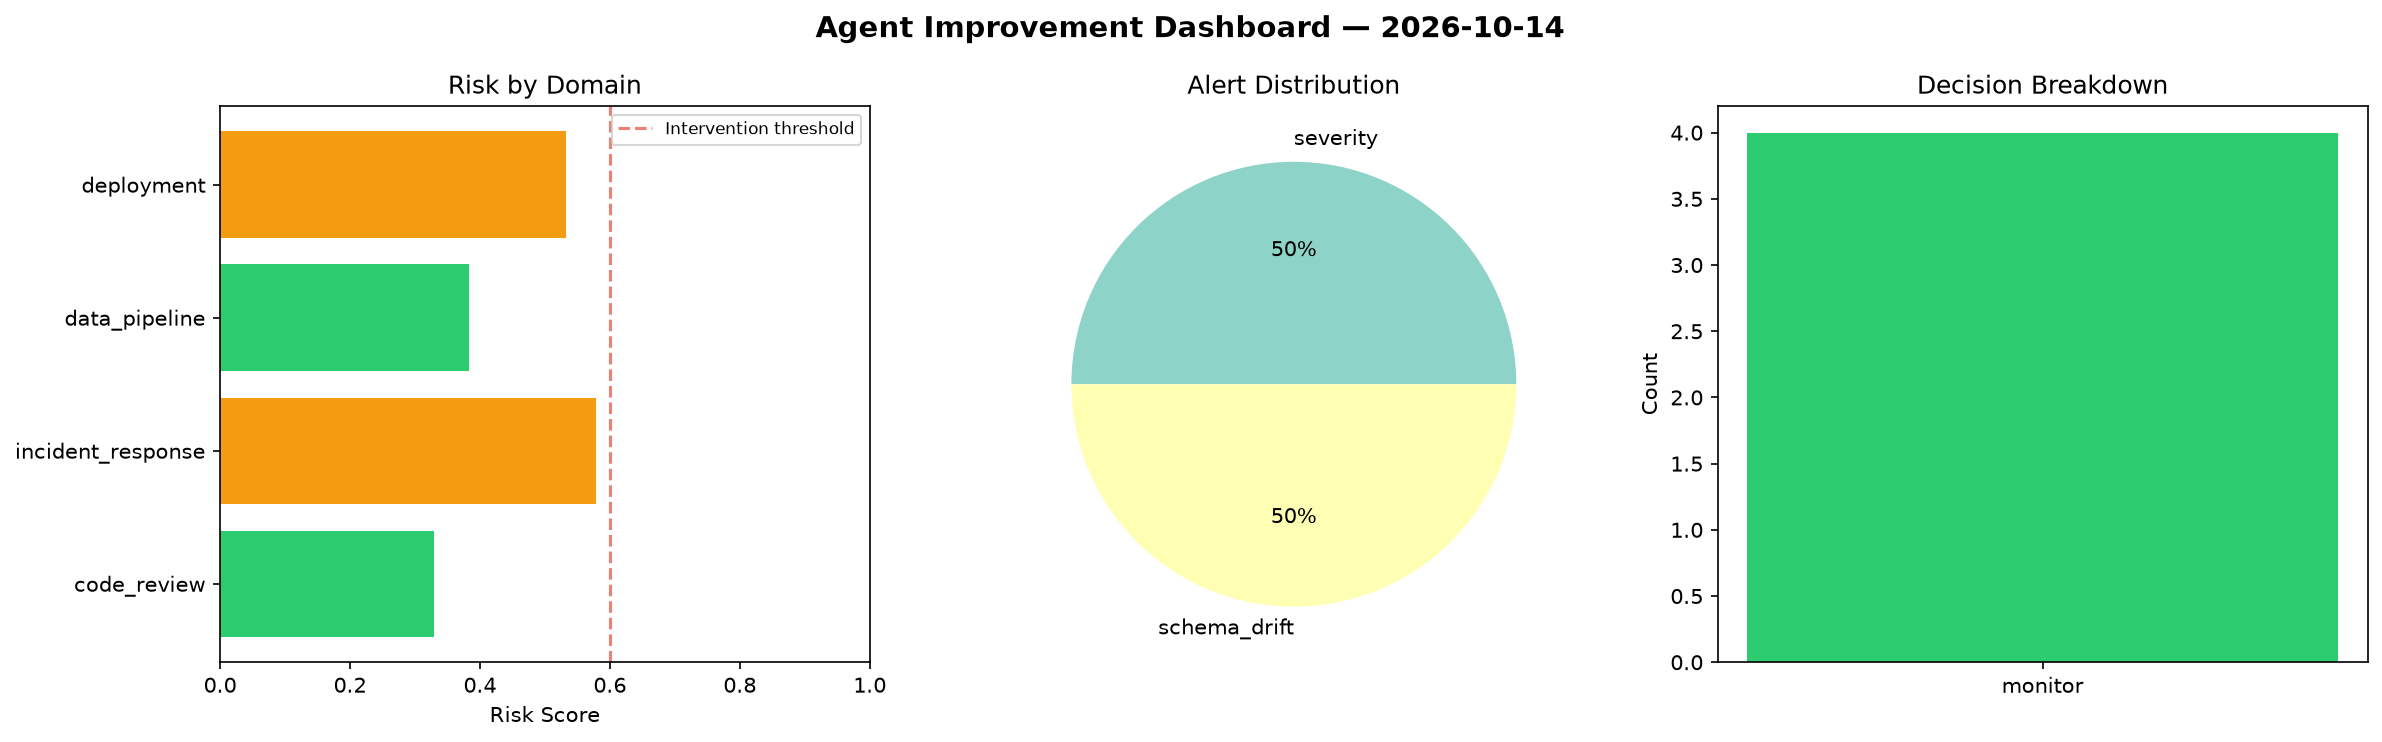
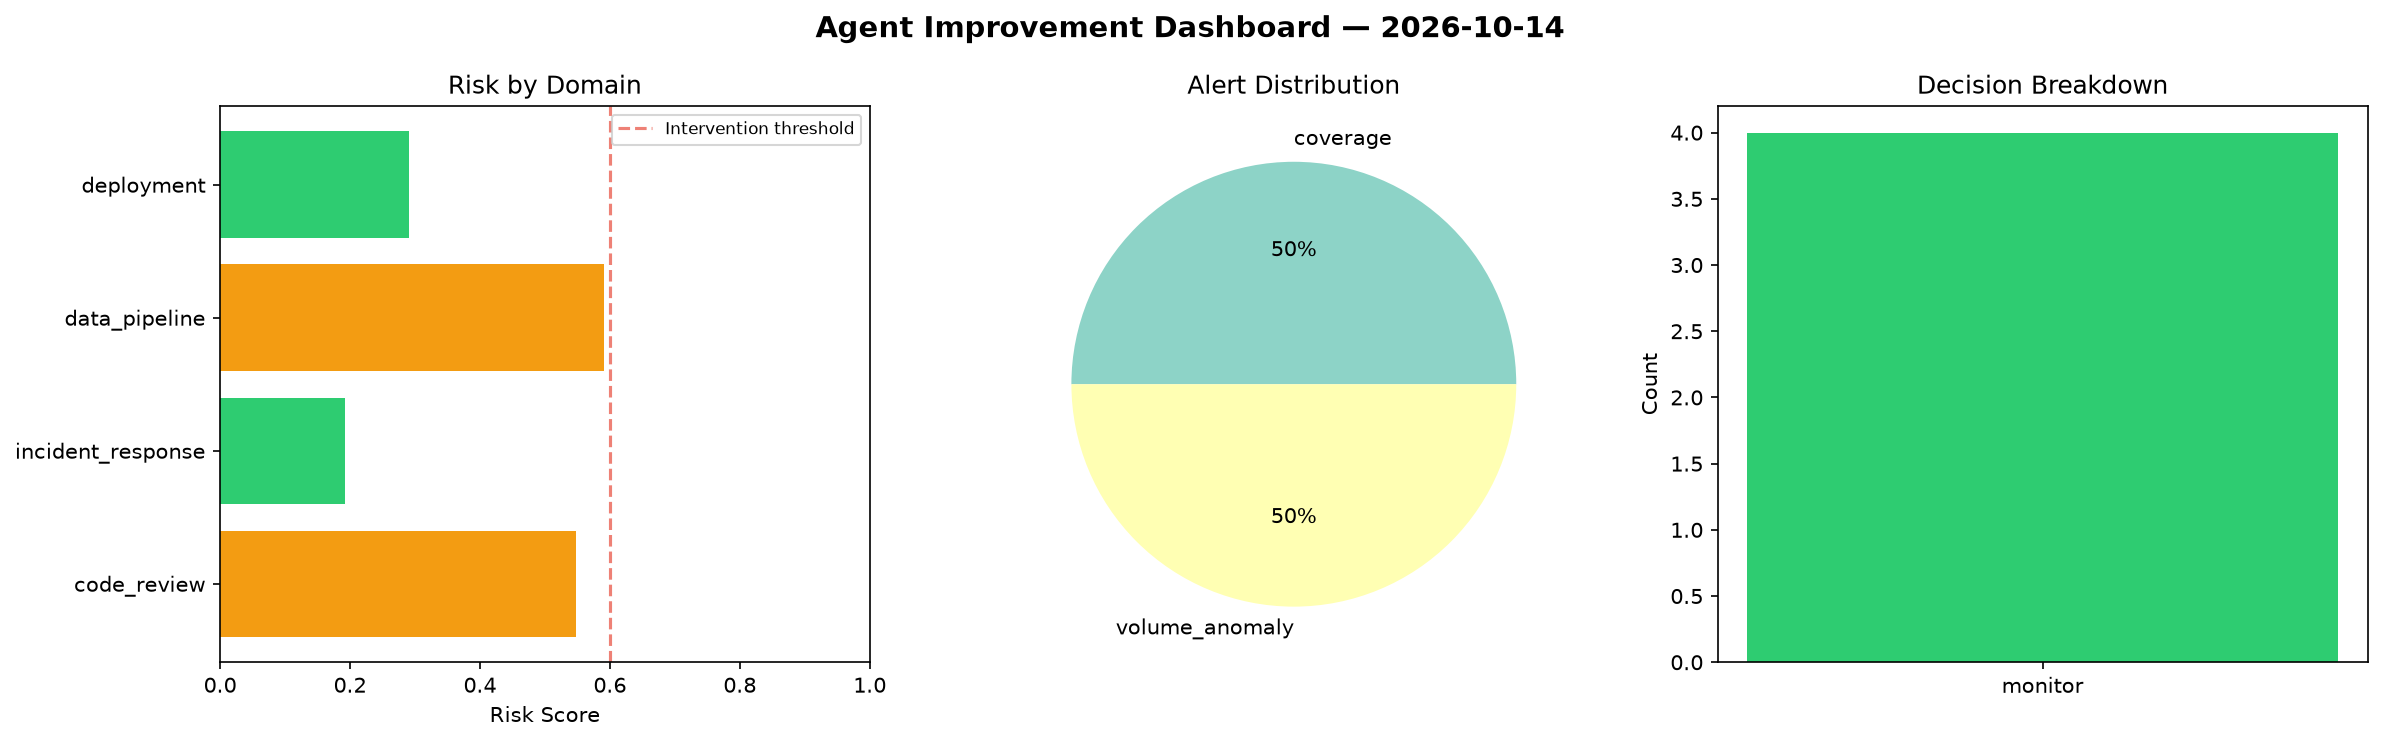
agent-improvement: daily cycle 2026-10-14T13:43

diff --git a/logs/2026-10-14.md b/logs/2026-10-14.md
@@ -1,6 +1,6 @@
 # Agent Improvement Report — 2026-10-14
 
-**Cycle ID:** `49ab7d72` | **Avg Risk:** 0.456 | **Interventions:** 0/4
+**Cycle ID:** `d07ff7aa` | **Avg Risk:** 0.4054 | **Interventions:** 0/4
 
 ![Dashboard](2026-10-14_dashboard.png)
 
@@ -10,18 +10,18 @@
 
 | Domain | Risk Score | Decision | Alerts |
 |--------|-----------|----------|--------|
-| code_review | 0.3293 | monitor | none |
-| incident_response | 0.5791 | monitor | severity |
-| data_pipeline | 0.3836 | monitor | schema_drift |
-| deployment | 0.5319 | monitor | none |
+| code_review | 0.5482 | monitor | coverage |
+| incident_response | 0.1926 | monitor | none |
+| data_pipeline | 0.5907 | monitor | volume_anomaly |
+| deployment | 0.2901 | monitor | none |
 
 ## Delta vs Yesterday
 
 | Domain | Today | Yesterday | Change |
 |--------|-------|-----------|--------|
-| code_review | 0.3293 | 0.4041 | 📉 -18.5% |
-| incident_response | 0.5791 | 0.4614 | 📈 25.5% |
-| data_pipeline | 0.3836 | 0.7066 | 📉 -45.7% |
-| deployment | 0.5319 | 0.5609 | 📉 -5.2% |
+| code_review | 0.5482 | 0.4041 | 📈 35.7% |
+| incident_response | 0.1926 | 0.4614 | 📉 -58.3% |
+| data_pipeline | 0.5907 | 0.7066 | 📉 -16.4% |
+| deployment | 0.2901 | 0.5609 | 📉 -48.3% |
 
-**Refinement:** `{'adjustment': 'tighten_thresholds', 'trend': 'degrading', 'window': 4}`
+**Refinement:** `{'adjustment': 'maintain', 'trend': 'improving', 'window': 4}`
